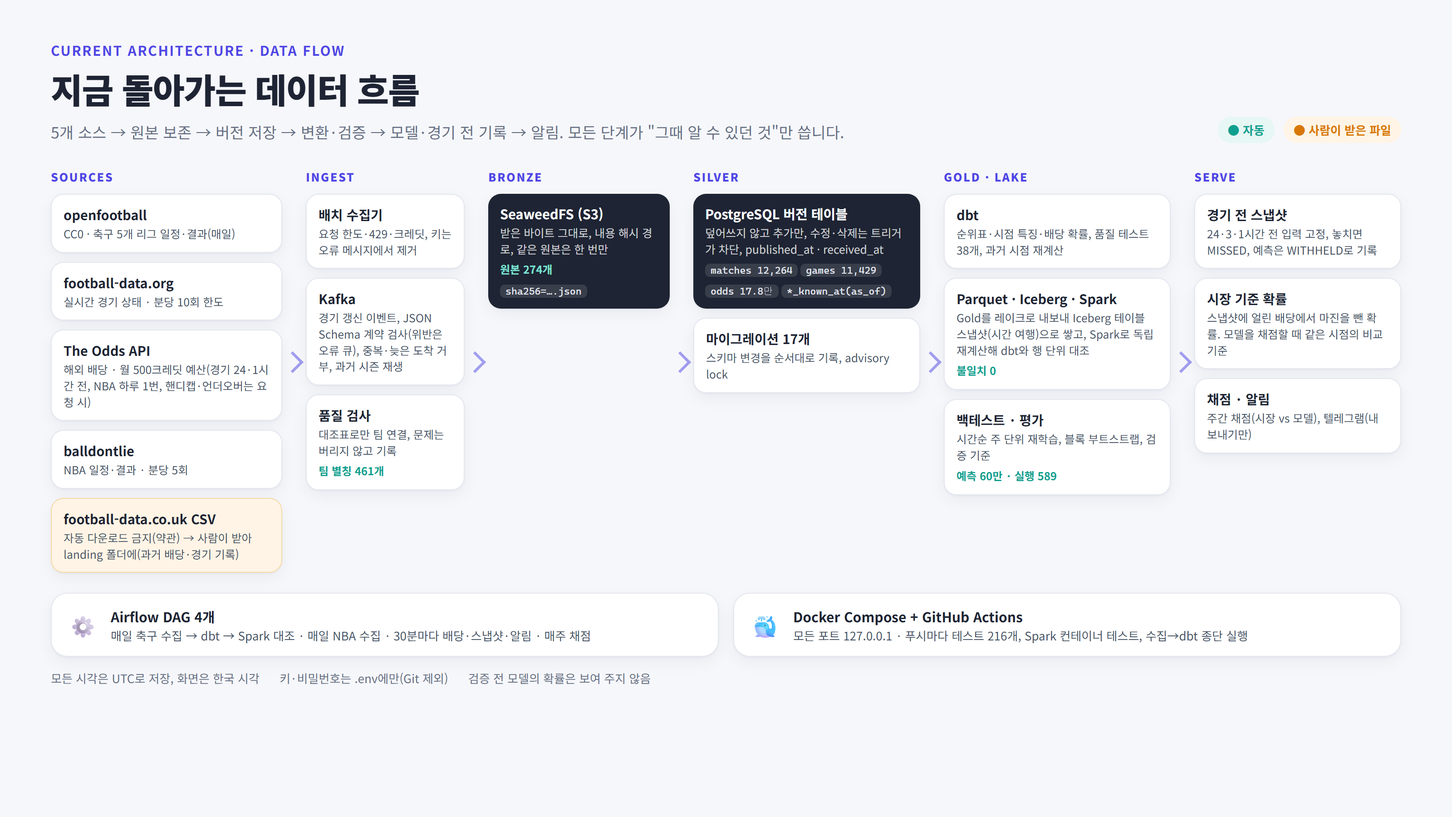
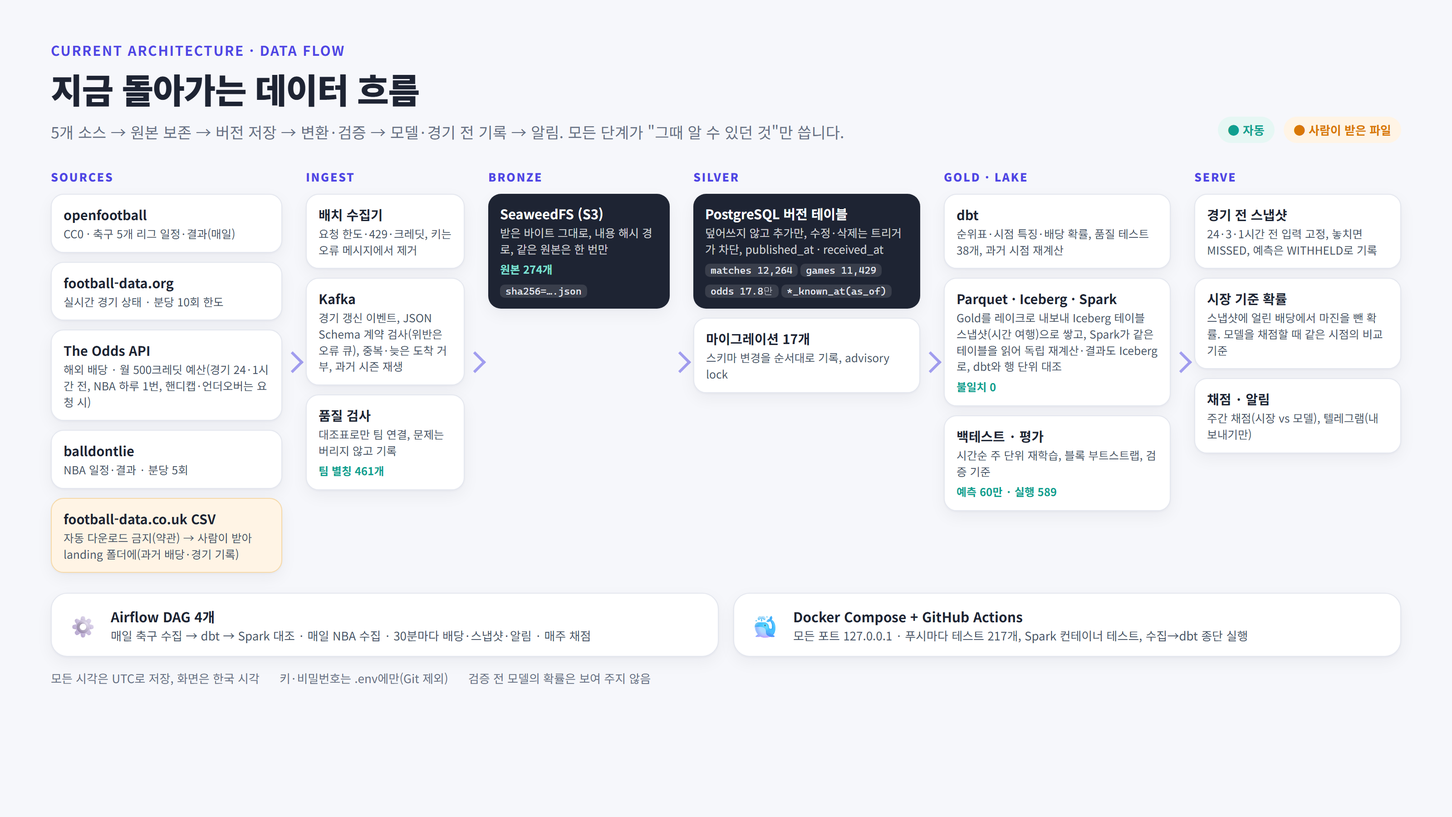
7b 해설, 면접 문서·그림 갱신

Changed region(s): [[0.6562, 0.4044, 0.8125, 0.6222]]

diff --git a/docs/diagrams/01_overview.html b/docs/diagrams/01_overview.html
@@ -73,7 +73,7 @@
         <div class="tech-row"><div class="name">Spark · Iceberg<span>레이크 · 대조</span></div><div class="why">Gold를 Iceberg 테이블 스냅샷으로 쌓아 <b>그날의 Gold를 시간 여행</b>으로 읽고, Spark로 <b>독립 재계산해 dbt와 행 단위 대조</b>(불일치 0)</div></div>
         <div class="tech-row"><div class="name">Airflow<span>오케스트레이션</span></div><div class="why">매일 수집·변환, <b>30분마다 경기 전 스냅샷</b>, 주간 채점, 실패 알림. API 크레딧 예산 안에서</div></div>
         <div class="tech-row"><div class="name">numpy<span>모델 · 평가</span></div><div class="why">Poisson·Dixon-Coles·점수 차 등급·Elo, <b>시간순 백테스트 + 블록 부트스트랩</b> 검증 기준</div></div>
-        <div class="tech-row"><div class="name">Docker · CI<span>재현 · 검증</span></div><div class="why">Compose로 전체 스택 재현, GitHub Actions에서 <b>테스트 216개 + Spark + dbt</b></div></div>
+        <div class="tech-row"><div class="name">Docker · CI<span>재현 · 검증</span></div><div class="why">Compose로 전체 스택 재현, GitHub Actions에서 <b>테스트 217개 + Spark + dbt</b></div></div>
       </div>
     </div>
 
@@ -85,7 +85,7 @@
           <div class="num"><b>23,693</b><span>경기(축구 12,264 · NBA 11,429)</span></div>
           <div class="num"><b>17.8만</b><span>배당 버전(해외 북메이커)</span></div>
           <div class="num"><b>60만</b><span>시간순 백테스트 예측</span></div>
-          <div class="num"><b>216</b><span>자동 테스트(CI 포함)</span></div>
+          <div class="num"><b>217</b><span>자동 테스트(CI 포함)</span></div>
         </div>
         <div class="item"><b>정직한 결론</b><span>모델은 단순 비율보다 확실히 낫지만 시장 배당은 못 이김 → 모두 NOT_VALIDATED, 확률 비공개(WITHHELD)</span></div>
         <div class="item"><b>매주 자동으로</b><span>경기 전에 얼린 예측을 같은 시점의 시장 확률과 나란히 채점, 텔레그램으로 요약</span></div>

diff --git a/docs/diagrams/02_data_flow.html b/docs/diagrams/02_data_flow.html
@@ -70,7 +70,7 @@
     <div class="col">
       <div class="label">Gold · Lake</div>
       <div class="card box"><h3>dbt</h3><p>순위표·시점 특징·배당 확률, 품질 테스트 38개, 과거 시점 재계산</p></div>
-      <div class="card box"><h3>Parquet · Iceberg · Spark</h3><p>Gold를 레이크로 내보내 Iceberg 테이블 스냅샷(시간 여행)으로 쌓고, Spark로 독립 재계산해 dbt와 행 단위 대조</p><span class="n">불일치 0</span></div>
+      <div class="card box"><h3>Parquet · Iceberg · Spark</h3><p>Gold를 레이크로 내보내 Iceberg 테이블 스냅샷(시간 여행)으로 쌓고, Spark가 같은 테이블을 읽어 독립 재계산·결과도 Iceberg로, dbt와 행 단위 대조</p><span class="n">불일치 0</span></div>
       <div class="card box"><h3>백테스트 · 평가</h3><p>시간순 주 단위 재학습, 블록 부트스트랩, 검증 기준</p><span class="n">예측 60만 · 실행 589</span></div>
     </div>
     <div class="col">
@@ -83,7 +83,7 @@
 
   <div class="bars">
     <div class="card bar"><div class="em">⚙</div><div><b>Airflow DAG 4개</b><span>매일 축구 수집 → dbt → Spark 대조 · 매일 NBA 수집 · 30분마다 배당·스냅샷·알림 · 매주 채점</span></div></div>
-    <div class="card bar"><div class="em">🐳</div><div><b>Docker Compose + GitHub Actions</b><span>모든 포트 127.0.0.1 · 푸시마다 테스트 216개, Spark 컨테이너 테스트, 수집→dbt 종단 실행</span></div></div>
+    <div class="card bar"><div class="em">🐳</div><div><b>Docker Compose + GitHub Actions</b><span>모든 포트 127.0.0.1 · 푸시마다 테스트 217개, Spark 컨테이너 테스트, 수집→dbt 종단 실행</span></div></div>
   </div>
   <div class="rule"><span>모든 시각은 UTC로 저장, 화면은 한국 시각</span><span>키·비밀번호는 .env에만(Git 제외)</span><span>검증 전 모델의 확률은 보여 주지 않음</span></div>
 </body>

diff --git a/docs/diagrams/04_roadmap.html b/docs/diagrams/04_roadmap.html
@@ -69,7 +69,7 @@
     <div class="card stage next">
       <div class="top"><span class="no">STAGE 7</span><span class="chip next">진행 중</span></div>
       <h3>레이크하우스</h3>
-      <ul><li><b>✓</b> Iceberg 테이블 스냅샷 · 시간 여행(7a)</li><li><b>✓</b> 옛 스냅샷 = dbt 시점 재계산</li><li>Spark가 Iceberg를 직접 읽고 쓰기(7b)</li></ul>
+      <ul><li><b>✓</b> Iceberg 테이블 스냅샷 · 시간 여행(7a)</li><li><b>✓</b> 옛 스냅샷 = dbt 시점 재계산</li><li><b>✓</b> Spark가 같은 카탈로그로 읽고 쓰기(7b)</li></ul>
       <div class="proof">시점 조회를 레이크까지</div>
     </div>
     <div class="card stage plan">

diff --git a/docs/walkthrough/7b_spark_iceberg.md b/docs/walkthrough/7b_spark_iceberg.md
@@ -1,0 +1,79 @@
+# 7b. Spark가 Iceberg 테이블을 직접 읽고 쓰기
+
+작성: 2026-10-24. 상태: **완료.**
+
+## 한 줄 요약
+
+7a까지 Spark는 내보내기 Parquet 파일을 boto3로 내려받아 읽고, 결과를 Parquet 파일로 올렸습니다. 이번 단계부터 Spark는 **PyIceberg와 같은 카탈로그(Postgres)로 `gold.*` Iceberg 테이블을 "그 내보내기를 쓴 스냅샷"으로 읽고(시간 여행)**, 결과를 **`spark.match_features_pit`, `spark.nba_standings` Iceberg 테이블**에 내보내기 ID를 단 스냅샷으로 씁니다. dbt ↔ Spark 대조도 Spark 결과를 Iceberg에서 읽습니다.
+
+실제 데이터로 축구 특징 12,264경기 × 18열, NBA 순위표 270행 × 9열 모두 불일치 0입니다. 이제 한 테이블을 두 엔진(Python의 PyIceberg, JVM의 Spark)이 같은 카탈로그로 쓰고 읽습니다.
+
+## 흐름
+
+```text
+run all (매일 DAG의 spark_reconcile, Airflow 안 Spark 가상환경)
+  export   Gold → Parquet(그대로)
+  iceberg  PyIceberg: Parquet → gold.* 스냅샷(내보내기 ID), 모든 스냅샷 검사(7a)
+  spark    Spark(Iceberg JDBC 카탈로그 + S3FileIO)
+             SELECT * FROM lake.gold.matches VERSION AS OF <그 내보내기의 스냅샷 ID>   (team_match_results, nba_games도)
+             → 특징·순위표 계산(4a·6b 규칙 그대로)
+             → lake.spark.match_features_pit / nba_standings 에 overwrite, snapshot-property.export.snapshot = 내보내기 ID
+             (이미 그 내보내기 결과가 있으면 계산하지 않음)
+  reconcile 정답(dbt 내보내기 Parquet) ↔ Spark 결과(PyIceberg로 spark.* 의 그 내보내기 스냅샷)
+```
+
+## 바꾼 것
+
+| 변경 | 위치 | 이유 |
+|---|---|---|
+| Spark 세션에 Iceberg 카탈로그 | `spark_features.iceberg_conf`, `spark_session` | PyIceberg와 같은 카탈로그 이름(`lake`)·Postgres 스키마(`lakehouse`)·창고 경로. 파일 입출력은 Iceberg S3FileIO라 hadoop-aws(s3a)가 필요 없다 |
+| 입력: 내보내기 스냅샷으로 시간 여행 | `spark_features.run` | 내려받기(boto3 → 임시 폴더) 대신 테이블. 같은 내보내기를 고정해서 읽으므로 그 뒤에 테이블이 바뀌어도 결과가 같다 |
+| 결과: Iceberg 테이블 | `spark_features.write_result` | 시즌 파티션, 전체 덮어쓰기, 스냅샷 요약에 내보내기 ID(Spark 쓰기 옵션 `snapshot-property.*`) |
+| 대조 | `reconcile.spark_rows` | Spark 결과를 PyIceberg로 읽음. 그 내보내기의 결과가 없으면 빈 목록 → 대조 실패로 드러남 |
+| 공용 함수 | `iceberg.snapshot_for_export`, `write_snapshot` | 쓰기 규칙(첫 쓰기 append, 그 뒤 overwrite)과 내보내기 → 스냅샷 찾기를 한곳에 |
+| jar 3개 | `infra/spark/fetch_jars.py`, Spark·Airflow Dockerfile | Maven Central에서 판·SHA-512 고정. 값이 다르면 이미지 빌드 실패 |
+
+| jar | 크기 | 확인 |
+|---|---|---|
+| `iceberg-spark-runtime-4.1_2.13-1.12.0.jar` | 48.3MB | Maven 공개 SHA-512 |
+| `iceberg-aws-bundle-1.12.0.jar`(S3FileIO) | 69.0MB | Maven 공개 SHA-512 |
+| `postgresql-42.7.14.jar`(JDBC 카탈로그) | 1.2MB | Maven에 SHA-512가 없어, 공개 SHA-1·MD5와 맞는 것을 확인한 파일에서 계산 |
+
+## 사용한 기술
+
+| 기술 | 어디에 | 어떻게 썼나 |
+|---|---|---|
+| Iceberg Spark 런타임(`SparkCatalog`, `IcebergSparkSessionExtensions`) | 세션 설정 | Spark SQL에서 `lake.gold.*`를 테이블로 |
+| Iceberg JDBC 카탈로그 | `spark.sql.catalog.lake.type=jdbc` | PyIceberg SqlCatalog이 만든 카탈로그 표(`iceberg_tables`)를 Java 쪽이 그대로 읽고 씀 |
+| Iceberg S3FileIO(AWS SDK v2 번들) | `io-impl`, `s3.endpoint`, `s3.path-style-access` | SeaweedFS에 경로 방식 주소로. Hadoop 파일시스템을 거치지 않음 |
+| SQL 시간 여행(`VERSION AS OF`) | 입력 읽기 | 스냅샷 ID로 그 내보내기의 테이블 |
+| DataFrameWriterV2(`writeTo().overwrite()`) + `snapshot-property.*` | 결과 쓰기 | 덮어쓴 스냅샷에 내보내기 ID |
+| SHA-512 고정 다운로드 | `fetch_jars.py` | 공급망 확인: 받은 파일이 고정한 값과 다르면 쓰지 않음 |
+
+## 확인 결과(2026-10-24)
+
+| 확인 | 결과 |
+|---|---|
+| 이미지 빌드 | jar 3개 모두 SHA-512 확인(48,309,426 / 69,034,612 / 1,221,004바이트) |
+| 실제 데이터(`run all`, Spark 컨테이너) | 내보내기 `1d01414f29fc689e`의 입력 스냅샷 3개로 계산 → 축구 특징 12,264 × 18열, NBA 순위표 270 × 9열 불일치 0. Iceberg 검사 5개 스냅샷 불일치 0 |
+| 다시 실행 | Spark 계산 건너뜀(`newly_computed: false`), Iceberg 쓰기 건너뜀, 대조 통과 |
+| 두 엔진이 같은 테이블 | Spark가 쓴 `spark.*`를 PC의 PyIceberg가 그대로 읽음(시즌 파티션, 스냅샷 요약의 내보내기 ID 확인) |
+| 테스트 | 대조 테스트 2개를 Iceberg 결과 자리로 바꿈(결과 없음 → 실패, 같은 값 → 통과, 값 하나 바꾼 스냅샷 → 그 칸만 불일치), Spark 설정 단위 테스트 1개 추가, Spark 컨테이너 테스트 3개 통과 |
+
+## 면접에서 나올 만한 질문
+
+**Q. Spark 쪽은 JDBC 카탈로그, Python 쪽은 SQL 카탈로그인데 같은 것인가요?**
+네, 같은 표를 씁니다. PyIceberg의 SqlCatalog은 Java JdbcCatalog과 같은 표 구조(`iceberg_tables`: 카탈로그 이름, 네임스페이스, 테이블 이름, 메타데이터 위치)를 쓰도록 만들어졌습니다. 그래서 카탈로그 이름(`lake`)과 스키마(`lakehouse`)만 맞추면 한쪽이 커밋한 포인터를 다른 쪽이 바로 봅니다. 실제로 PyIceberg가 만든 `gold.*`를 Spark가 읽었고, Spark가 만든 `spark.*`를 PyIceberg가 읽었습니다.
+
+**Q. 왜 s3a(hadoop-aws)가 아니라 S3FileIO인가요?**
+s3a는 Hadoop 파일시스템 계층을 거치고 hadoop-aws와 판을 맞춘 AWS SDK가 필요합니다. Iceberg의 S3FileIO는 테이블 메타데이터가 파일 목록을 알고 있다는 전제로 목록 조회 없이 객체를 직접 읽고 씁니다. 객체 저장소에 더 맞는 방식이라 Iceberg가 권장합니다.
+
+**Q. 외부 jar를 이미지에 넣을 때 무엇을 확인했나요?**
+받는 곳(Maven Central), 판, 크기, 배포일을 사람이 먼저 확인했습니다. 판과 SHA-512는 코드에 고정해, 빌드할 때마다 같은 바이트인지 확인합니다. Postgres 드라이버는 Maven에 SHA-512가 없어서, 공개된 SHA-1·MD5와 맞는 것을 확인한 파일에서 SHA-512를 계산해 고정했습니다(PGP 서명 검증은 하지 않음).
+
+## 한계
+
+- **Iceberg 1.12에서 Spark 읽기 옵션 `snapshot-id`가 없어져** SQL `VERSION AS OF`로 바꿨습니다([장애 기록](../interview/error_handling.md) 33번).
+- **Spark 결과 테이블에는 처음 만들 때의 빈 스냅샷이 하나 있습니다**(내보내기 ID 없음). 시간 여행은 내보내기 ID로 찾으므로 영향이 없습니다.
+- **옛 Parquet 결과(`spark/…/snapshot=…`)는 지우지 않았습니다.** 이제 새로 쓰지 않습니다.
+- **jar 서명(PGP)은 검증하지 않습니다.** 고정한 해시로 같은 파일인지만 확인합니다.

diff --git a/docs/interview/error_handling.md b/docs/interview/error_handling.md
@@ -169,6 +169,7 @@
 | 알림(4b) | 봇 토큰은 URL에 들어가므로 오류 문구에서 지우고 원래 예외를 이어 붙이지 않음(`raise … from None`). 429는 retry_after만큼 대기. 설정이 없으면 NOT_CONFIGURED로 건너뜀. 보낸 알림은 (종류, 키)로 기록해 재시도해도 한 번만(보낸 뒤 기록 = 최소 한 번). 실패 알림 콜백은 예외를 내지 않아 원래 실패를 가리지 않음 |
 | 엔진 간 대조(4a) | Spark 결과를 같은 스냅샷의 dbt 결과와 행·열 단위로 대조(pyarrow, Spark 밖에서). 불일치가 하나라도 있으면 종료 코드 1 → 매일 DAG의 `spark_reconcile` 작업 실패(재시도는 S3 일시 오류용 1번만). Spark가 아예 못 뜨면 stderr 끝부분을 오류에 담음. Spark 테스트는 `REQUIRE_SPARK=1`이면 건너뛰지 않고 실패 |
 | Iceberg(7a) | 같은 내보내기 ID가 이미 있는 테이블은 쓰지 않음(멱등). 빈 테이블에는 append, 그 뒤는 전체 overwrite(지울 것이 없는 덮어쓰기 경고를 없앰). 시간 여행 대상이 없으면 `LookupError`(빈 결과로 조용히 넘어가지 않음). 매일 모든 스냅샷을 내보내기 파일과 행 단위로 대조, 다르면 종료 코드 1 → 작업 실패. 카탈로그 포인터 교체는 DB 트랜잭션이라 동시 커밋은 하나만 성공 |
+| Spark ↔ Iceberg(7b) | 입력은 그 내보내기를 쓴 스냅샷만(없으면 `LookupError`, 최신 스냅샷으로 대신하지 않음). 결과가 이미 있으면 계산하지 않음. 대조는 그 내보내기의 Spark 결과가 없으면 빈 목록 → 실패. jar는 SHA-512가 다르면 이미지 빌드 실패 |
 | 선택 낙관 제거(3f) | 보정 계수는 검증 시즌을 서로 바꿔 채점(교차 보정). 검증 시즌이 하나면 같은 자료로 고르고 채점하는 대신 오류 |
 | 과신 방지(3c) | 차이의 구간은 주 단위 블록 부트스트랩으로(경기 단위로 뽑으면 구간이 좁아져 과신), 비율 구간은 Wilson(작은 표본에서도 0~1 안) |
 
@@ -208,6 +209,7 @@
 | 30 | 어제 통과한 NBA 배당 테스트가 오늘 실패 | 수신 시각은 실행 순간의 실제 시계로 기록되는데, 테스트가 고정된 날짜(10/22 21:00)로 시점 조회를 함. 날짜가 바뀌자 그 배당이 "아직 모르는 것"이 됨(코드는 맞음) | 시점 조회 대신 버전 기록(값·발표 시각 순서)을 확인하고, 최신 조회만 `now()`로 | 실제 시계를 쓰는 값과 고정 날짜를 한 테스트에서 비교하지 않는다 |
 | 31 | football-data.org가 일부 라리가 경기의 상태 칸에 상태 대신 날짜(`2026-10-21 18:00:00Z`)를 보냄. 이미 Silver에 6건이 그 값으로 들어가 있었음(6c 계약을 실제 Bronze 원본 29,428경기에 돌려 보다 발견) | 출처가 문서에 없는 값을 보냄. 그때까지는 상태 값을 검사하지 않고 그대로 저장 | 계약에 허용 상태 목록을 두고 생산자·소비자가 같은 파일로 검사. 이제 그런 경기는 보내지 않고 품질 문제로 남김. 상태를 추측해(예: SCHEDULED) 고쳐 넣지 않음. 이미 들어간 6건은 수정 불가 버전이라 그대로 두고 기록 | 형식 검사를 "들어오는 길"에 두지 않으면 출처의 이상한 값이 조용히 쌓인다. 계약을 만들면 먼저 과거 원본 전체에 돌려 본다 |
 | 32 | Iceberg 스냅샷 목록에 같은 내보내기가 두 번 나와 테스트 실패 | PyIceberg의 overwrite는 비어 있지 않은 테이블에서 "지우기"와 "넣기" 스냅샷을 차례로 커밋하고, 둘 다 같은 요약 속성을 단다. 중간 스냅샷은 빈 테이블 | 내보내기마다 마지막 스냅샷만 남기고, 빈 테이블에는 append. 검사에 중간 스냅샷이 들어가면 "빈 테이블 ≠ 내보내기"로 오탐이 나므로 같은 규칙을 검사에도 씀 | 라이브러리가 한 번의 호출을 몇 개의 커밋으로 만드는지는 실제 메타데이터를 보고 확인한다 |
+| 33 | Spark가 Iceberg 입력을 읽자마자 `Time travel option snapshot-id is no longer supported` | Iceberg 1.12부터 Spark 읽기 옵션 `snapshot-id`가 없어짐(인터넷의 예제 대부분이 예전 방식) | SQL `SELECT … VERSION AS OF <스냅샷 ID>`로 읽음. 실제 데이터로 다시 돌려 불일치 0 확인 | 라이브러리 판을 올릴 때는 그 판의 문서와 실제 실행으로 확인한다. 예제 코드는 판을 확인한다 |
 
 ## 면접에서 나올 만한 질문
 

diff --git a/docs/interview/tech_stack.md b/docs/interview/tech_stack.md
@@ -142,7 +142,7 @@ football-data.org ── 수집기 → Kafka → 소비자 ──┘
 - **역할:** Gold를 Parquet로 S3 `lake` 버킷에 내보내고, 시간순 특징을 Spark로 다시 계산해 dbt 결과와 대조한다.
 - **왜 지금:** 자료가 커서가 아니다(Postgres가 몇 초에 처리). 자료가 커져 Spark로 옮길 때 결과가 바뀌지 않는다는 것을 미리 증명하려는 것이다. 2,660경기 × 18열 대조 불일치 0.
 - **구성:** Java 17 + pyspark를 담은 컨테이너(`infra/spark/Dockerfile`, compose `spark` 프로필). 매일 자동 실행은 Airflow 이미지 안의 별도 가상환경(`/home/airflow/spark-venv`)에서 한다. Airflow에 docker.sock(사실상 관리자 권한)을 넘기지 않기 위해서다. Windows에서 Spark로 파일을 쓰려면 winutils가 필요해 Linux 컨테이너로 돌린다. 미니 PC·쿠버네티스로 그대로 옮길 수 있다.
-- **S3 연결:** s3a 커넥터 대신 boto3로 내려받고 올린다. s3a는 hadoop-aws와 수백 MB의 AWS SDK가 필요해 수 MB 자료에는 과하다. 커지면 바꾼다.
+- **S3 연결:** 처음(4a)에는 s3a 커넥터 대신 boto3로 내려받고 올렸다(hadoop-aws와 판을 맞춘 AWS SDK가 필요해 과했다). 7b부터는 Iceberg 테이블을 S3FileIO로 직접 읽고 쓴다(목록 조회 없이 메타데이터가 가리키는 객체만).
 - **Parquet:** 시즌별 Hive 방식 파티션, 열 형식 명시, 시각은 UTC 마이크로초(Spark 기본 INT96은 다른 도구가 시간대 없이 읽음).
 - **대안:** DuckDB(한 대에서 Parquet를 SQL로 빠르게)도 맞지만, 여러 대로 늘어나는 경로와 채용 수요를 생각해 Spark를 골랐다.
 ### Apache Iceberg + PyIceberg 0.12.0 (7a)
@@ -151,7 +151,7 @@ football-data.org ── 수집기 → Kafka → 소비자 ──┘
 - **카탈로그:** PyIceberg SQL 카탈로그(Postgres `lakehouse` 스키마). REST·Hive 카탈로그 서버를 따로 띄우지 않는다. 연결은 SQLAlchemy + 기존 psycopg 3.
 - **검증:** 매일 모든 스냅샷을 그 내보내기 파일과 행 단위로 대조(불일치면 작업 실패). 테스트에서는 dbt를 `as_of`로 다시 계산한 Gold와 옛 스냅샷이 같은지 확인.
 - **대안:** Delta Lake는 Spark 중심이고 Python 쪽 쓰기 도구(delta-rs)가 따로다. Iceberg는 엔진 중립(Spark·Trino·DuckDB·Snowflake)이고 카탈로그를 고를 수 있어 골랐다.
-- **한계:** Spark는 아직 내보내기 파일을 읽는다(Iceberg 런타임 jar가 필요, 7b).
+- **Spark(7b):** Spark도 같은 카탈로그를 Iceberg JDBC 카탈로그로 본다(PyIceberg SqlCatalog과 같은 표 구조). 입력은 `VERSION AS OF <내보내기 스냅샷>`, 결과는 `spark.*` 테이블. 파일 입출력은 Iceberg S3FileIO. jar 3개(Iceberg Spark 런타임 1.12.0, AWS 번들 1.12.0, Postgres JDBC 42.7.14)는 판·SHA-512를 고정해 이미지 빌드 때 받는다(`infra/spark/fetch_jars.py`).
 
 - **쓰는 곳:** `pipelines/lake/`, `tests/test_lake.py`, `tests/test_spark_features.py`(CI는 Spark 이미지 안에서 `REQUIRE_SPARK=1`로 실행).
 

diff --git a/docs/de_platform_roadmap.md b/docs/de_platform_roadmap.md
@@ -74,7 +74,8 @@ Airflow가 전체 작업 순서와 재시도를 관리합니다.
 | 6b. NBA Spark 대조 ✅ | NBA 끝난 경기 원자료를 Parquet로 내보내 Spark로 순위표를 처음부터 다시 계산, dbt와 칸 단위 대조(매일 DAG) | 270행 × 9열 불일치 0 | 없음 |
 | 6c. Kafka 스키마 계약 ✅ | 이벤트 형식을 JSON Schema로(겉봉투 엄격, 내용은 추가만 허용, event_id 재계산), 생산자·소비자 양쪽 검사, 위반·대조표 밖 팀은 오류 큐(dead letter)로, 오류 큐 요약·다시 보내기 도구 | 깨진 메시지가 Silver에 들어가지 않음, 실제 원본에서 출처 오류 21건 발견 | 없음 |
 | 7a. Iceberg 레이크하우스 ✅ | 내보내기마다 Iceberg 테이블 5개(`gold.*`)에 스냅샷 하나(PyIceberg, Postgres SQL 카탈로그, 시즌 파티션), 내보내기 ID·시각으로 시간 여행, 매일 DAG에서 모든 스냅샷을 내보내기와 대조 | 옛 스냅샷 = dbt를 그 시점으로 다시 계산한 Gold, 실제 5개 테이블 불일치 0 | 없음 |
-| 7b. Spark가 Iceberg를 직접 읽기 | Spark에 Iceberg 런타임을 붙여 내려받기 대신 같은 카탈로그의 테이블을 읽고, 결과도 Iceberg 테이블로 | Spark 결과가 지금과 같음(불일치 0) | Iceberg jar 내려받기 승인 |
+| 7b. Spark가 Iceberg를 직접 읽기 ✅ | Spark에 Iceberg 런타임·S3FileIO·JDBC 카탈로그(jar 3개, 판·SHA-512 고정), 입력은 내보내기 스냅샷으로 시간 여행(`VERSION AS OF`), 결과는 `spark.*` Iceberg 테이블, 대조도 Iceberg에서 | 12,264 × 18열, 270 × 9열 불일치 0, 다시 실행하면 계산 건너뜀 | jar 내려받기 승인(완료) |
+| 7c. 운영 상태 보기 | 수집 신선도·작업 실패·API 크레딧·오류 큐·주간 채점을 한곳에 | 하루 상태를 한 화면에서 확인 | 보는 방식 결정(아래 계획) |
 
 3단계 검증을 통과하기 전에는 확률을 표시하지 않습니다(WITHHELD).
 

diff --git a/docs/portfolio.md b/docs/portfolio.md
@@ -57,10 +57,10 @@
 | 경기 | 23,693(축구 12,264 · NBA 11,429) |
 | 배당 버전 | 약 17.8만(해외 북메이커) |
 | 시간순 백테스트 예측 | 약 60만(실행 589개) |
-| 자동 테스트 | 216개(GitHub Actions: 전체 테스트 + Spark 컨테이너 + 수집→dbt 종단) |
+| 자동 테스트 | 217개(GitHub Actions: 전체 테스트 + Spark 컨테이너 + 수집→dbt 종단) |
 | 스키마 마이그레이션 | 17개 |
 | Airflow DAG | 4개(매일 수집·변환·대조, 30분마다 경기 전 기록, 매주 채점) |
-| 해설 문서 | 단계별 26편, 실제로 겪은 문제 기록 32건 |
+| 해설 문서 | 단계별 27편, 실제로 겪은 문제 기록 33건 |
 
 ## 4. 정직한 결론
 
@@ -82,7 +82,7 @@
 | 소스가 4차 연장 경기를 동점으로 기록 | 3차 연장 끝 점수를 최종으로 저장 | 종목 규칙 검사(무승부 없음)로 저장 전에 차단 | 도메인 규칙을 데이터 검사로 만든다 |
 | 시점 조회 테스트가 연달아 실패 | 가짜 자료의 수신 시각이 실제 현재보다 미래 | 테스트 자료를 "언제 알았나"까지 현실처럼 | 시점 코드의 테스트는 시각까지 모델링한다 |
 
-전체 32건은 [예외 처리 기록](interview/error_handling.md)에 있습니다.
+전체 33건은 [예외 처리 기록](interview/error_handling.md)에 있습니다.
 
 ## 6. 설계 결정과 대안
 
@@ -105,8 +105,8 @@
 
 ![로드맵](images/04_roadmap.png)
 
-1. Spark가 Iceberg 테이블을 직접 읽고 쓰기(7b)
-2. 운영 대시보드(신선도·실패·크레딧·채점·오류 큐), Kubernetes 배포
+1. 운영 상태 보기(신선도·실패·크레딧·채점·오류 큐)(7c)
+2. 미니 PC 상시 운영, Kubernetes 배포
 
 ## 링크
 

diff --git a/docs/walkthrough/README.md b/docs/walkthrough/README.md
@@ -30,5 +30,6 @@
 | 6b | [NBA Spark 대조](6b_nba_spark_reconcile.md) | 순위 규칙까지 두 엔진이 따로 구현해 칸 단위로 맞추기, 원자료에서 시작해야 독립 검증인 이유 |
 | 6c | [Kafka 계약과 오류 큐](6c_kafka_contracts.md) | JSON Schema 계약과 호환 규칙, 생산자·소비자 양쪽 검사, 오류 큐 순서 보장, 실제 원본에서 찾은 출처 오류 21건 |
 | 7a | [Iceberg 레이크하우스](7a_iceberg_lakehouse.md) | 파일 묶음과 테이블 형식의 차이, SQL 카탈로그, 내보내기 ID 스냅샷과 시간 여행, 두 시간 여행(Postgres·Iceberg)이 같은 답인지 |
+| 7b | [Spark ↔ Iceberg](7b_spark_iceberg.md) | 한 카탈로그를 두 엔진(PyIceberg·Spark)이 함께 쓰기, JDBC 카탈로그와 S3FileIO, `VERSION AS OF` 시간 여행, 외부 jar 공급망 확인 |
 
 전체 구조는 [코드 가이드](../code_guide.md), 계획과 진행 상태는 [로드맵](../de_platform_roadmap.md), 주제별(예외 처리·메달리온·기술 스택) 정리는 [면접 준비 문서](../interview/README.md)를 함께 보세요.

diff --git a/README.md b/README.md
@@ -78,6 +78,7 @@ football-data.org(실시간 경기) ── 수집기 → Kafka → 소비자 ─
 | 6b | NBA 순위표를 Spark로 원자료부터 다시 계산해 dbt와 대조(불일치 0) | [6b](docs/walkthrough/6b_nba_spark_reconcile.md) |
 | 6c | Kafka 이벤트 JSON Schema 계약(생산자·소비자 양쪽 검사) + 오류 큐(dead letter)·다시 보내기 | [6c](docs/walkthrough/6c_kafka_contracts.md) |
 | 7a | Iceberg 레이크하우스: 내보내기마다 테이블 스냅샷, 내보내기 ID·시각으로 시간 여행, dbt 시점 재계산과 일치 | [7a](docs/walkthrough/7a_iceberg_lakehouse.md) |
+| 7b | Spark가 같은 카탈로그로 Iceberg 테이블을 시간 여행으로 읽고 결과도 Iceberg로(jar 판·SHA-512 고정), 불일치 0 | [7b](docs/walkthrough/7b_spark_iceberg.md) |
 
 평가 결과(시험 시즌 2023-24 이후, 로그 손실이 낮을수록 좋음):
 
